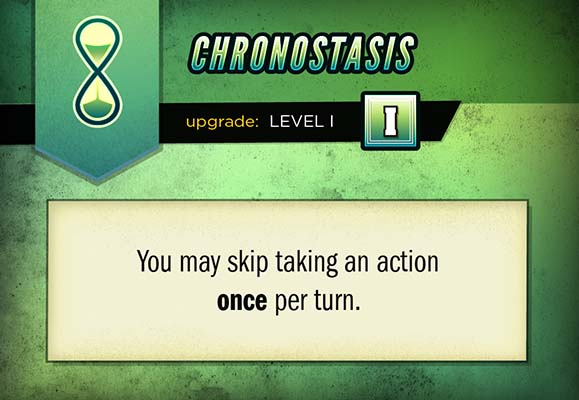
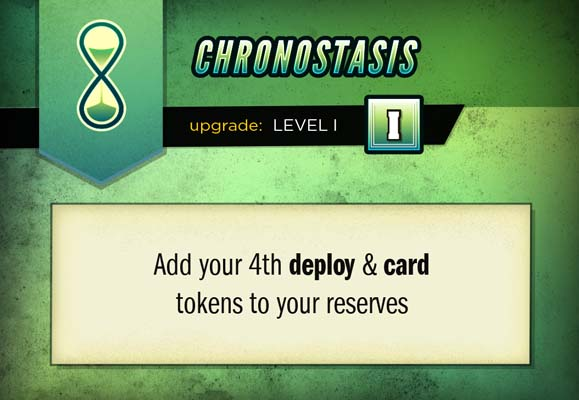
BUREAU: rework upgrades

diff --git a/server/classes/factions/Bureau.js b/server/classes/factions/Bureau.js
@@ -11,12 +11,15 @@ class Bureau extends Faction {
         this.triggers = {
             "onCleanUp" : "resetUsedSkips",
             "onAfterActivateToken" : "eraseThePast",
+            'onSetup' : 'setUpVariousBits',
         };
 
         //data
         this.data.name = this.name;
         this.data.title = "The Bureau of Eternity";
         this.data.focusDescription = "Have the most tokens in many areas";
+        this.data.deployCache = [];
+        this.data.cardCache = [];
         //this.data.bonusDeploy = { type: 'champion', count : 1 };
 
         // track our skips used
@@ -26,10 +29,10 @@ class Bureau extends Faction {
         };
 
         // tokens
-        this.tokens['deploy'].count = 4;
-        this.tokens['card'].count = 4;
-        //this.tokens['move'].count = 2;
-        //this.tokens['battle'].count = 2;
+        this.tokens['deploy'].count = 5;
+        this.tokens['card'].count = 5;
+        this.tokens['move'].count = 2;
+        this.tokens['battle'].count = 2;
 
         this.tokens['loop'] = {
             count: 1,
@@ -60,16 +63,35 @@ class Bureau extends Faction {
         };
     }
 
-
     /**
      * Process faction upgrade
      *
      * @param {number} upgrade
      */
-    processUpgrade( upgrade ) {
-        this.data.skips.max = upgrade === 1 ? 1 : 3;
+    processUpgrade( upgrade ){
+        // add additional tokens to our reserves
+        this.upgradeVariableItems({
+            reserves: this.data.tokens,
+            cache: this.data.cardCache,
+        });
+
+        this.upgradeVariableItems({
+            reserves: this.data.tokens,
+            cache: this.data.deployCache,
+        });
+
+        this.sortTokens();
     }
 
+    sortTokens(){
+        const order = ['deploy', 'card', 'move', 'battle', 'dig'];
+        this.data.tokens.sort((a, b) => {
+            const aIndex = order.indexOf(a.type);
+            const bIndex = order.indexOf(b.type);
+            if( aIndex === bIndex ) return 0;
+            return aIndex < bIndex ? -1 : 1;
+        });
+    }
 
     /**
      * Resolve our skip action
@@ -114,8 +136,8 @@ class Bureau extends Faction {
      */
     getFirstMatchingEnemyToken( area, ourToken ){
         return area.data.tokens.find( token => token.faction !== this.name
-                                                        && token.revealed
-                                                        && token.name === ourToken.name );
+            && token.revealed
+            && token.name === ourToken.name );
     }
 
 
@@ -247,6 +269,28 @@ class Bureau extends Faction {
      */
     resetUsedSkips(){
         this.data.skips.used = 0;
+    }
+
+
+    setUpVariousBits(){
+        this.setupDeployAndCardTokens();
+    }
+
+    /**
+     * Remove the vines tokens we haven't unlocked yet from our reserves
+     */
+    setupDeployAndCardTokens(){
+        this.setupVariableItems({
+            value: 'deploy',
+            reserves: this.data.tokens,
+            cache: this.data.deployCache,
+        });
+
+        this.setupVariableItems({
+            value: 'card',
+            reserves: this.data.tokens,
+            cache: this.data.cardCache,
+        });
     }
 }
 
